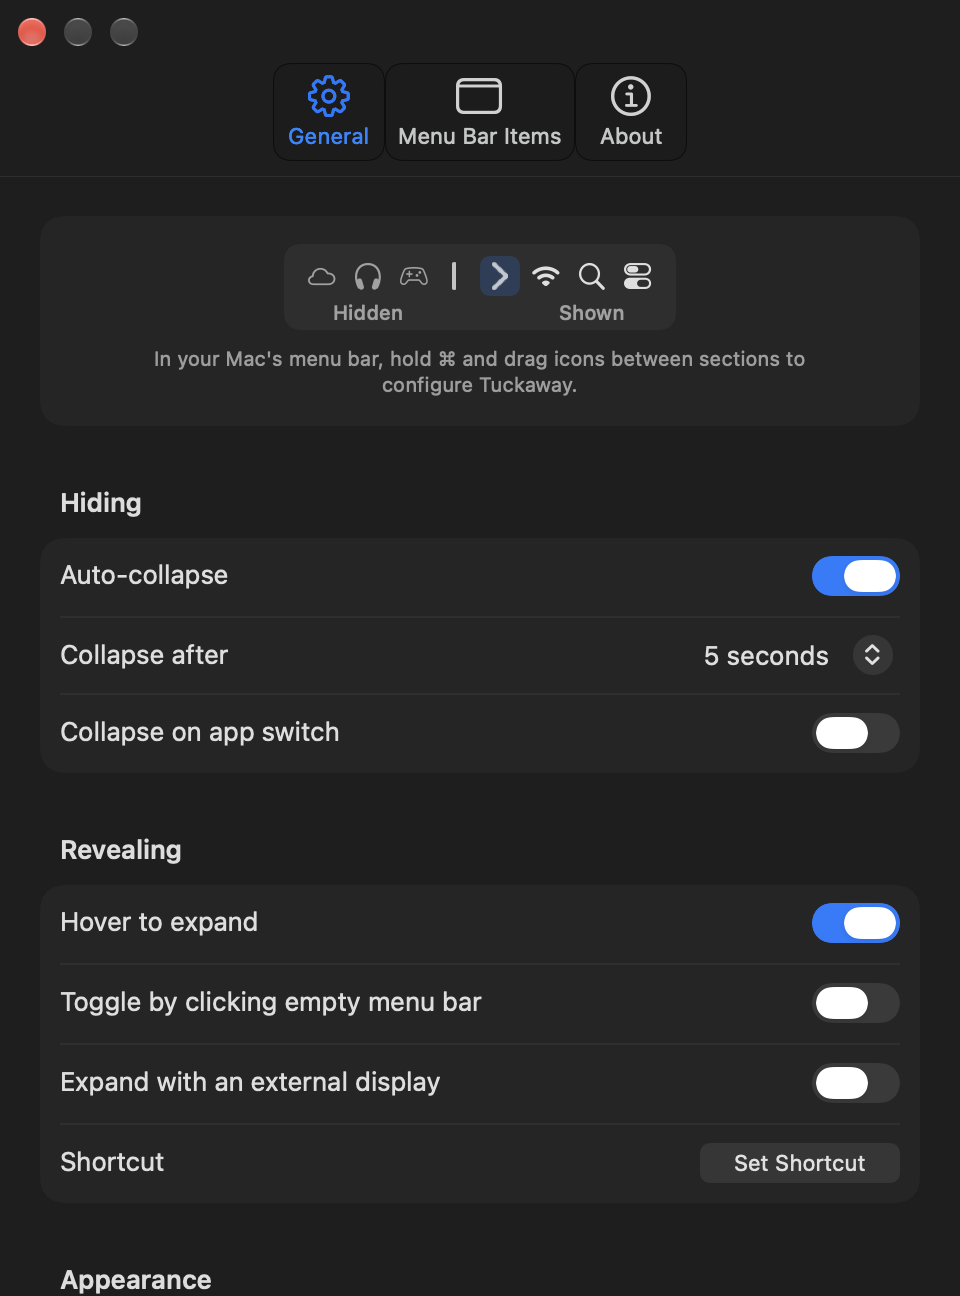
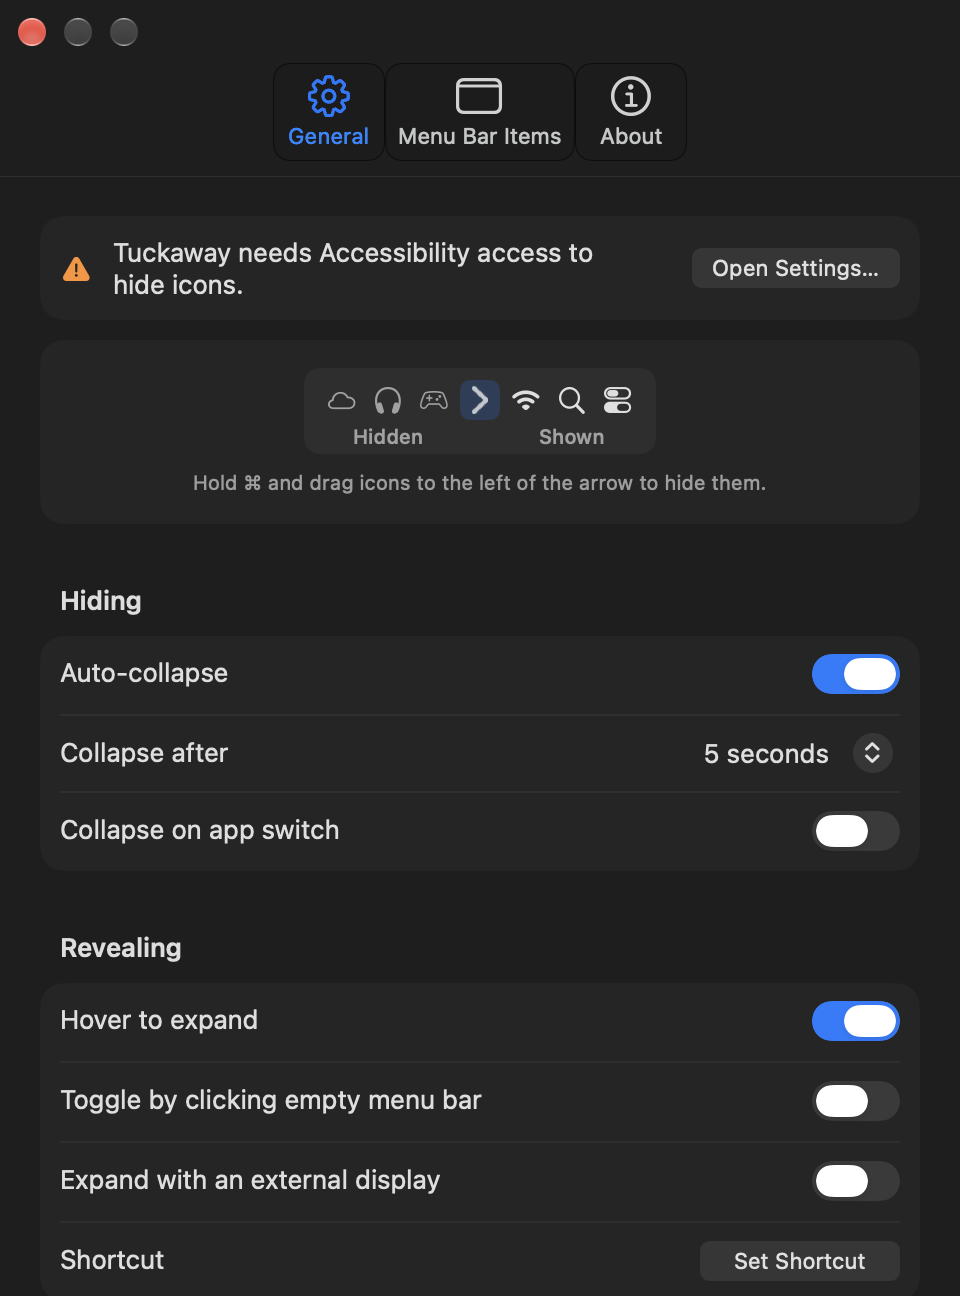
fix: make the macOS 27 hiding notice accurate
The App Store (sandboxed) build cannot use native hiding on macOS 27 and
told users hiding was impossible there. The direct-download build does
hide natively, so the notice now says only this version can't, and
links to the latest Tuckaway release instead of upstream issue #360.

Also refresh the General screenshot from the Direct build.

diff --git a/hidden/Features/StatusBar/Engine/LegacyLengthEngine.swift b/hidden/Features/StatusBar/Engine/LegacyLengthEngine.swift
@@ -141,7 +141,7 @@ final class LegacyLengthEngine: MenuBarEngine {
         alert.addButton(withTitle: NSLocalizedString("OK", comment: ""))
         NSApp.activate(ignoringOtherApps: true)
         if alert.runModal() == .alertFirstButtonReturn,
-           let url = URL(string: "https://github.com/dwarvesf/hidden/issues/360") {
+           let url = URL(string: "https://github.com/Bruno-Alumn/Tuckaway/releases/latest") {
             NSWorkspace.shared.open(url)
         }
     }

diff --git a/hidden/Features/StatusBar/StatusBarController.swift b/hidden/Features/StatusBar/StatusBarController.swift
@@ -663,7 +663,7 @@ class StatusBarController: MenuBarItemProvider {
     }
 
     @objc private func openMacOS27Notice() {
-        guard let url = URL(string: "https://github.com/dwarvesf/hidden/issues/360") else { return }
+        guard let url = URL(string: "https://github.com/Bruno-Alumn/Tuckaway/releases/latest") else { return }
         NSWorkspace.shared.open(url)
     }
     

diff --git a/CHANGELOG.md b/CHANGELOG.md
@@ -10,6 +10,7 @@
 - The arrow's context menu: "Auto-collapse" is a checkmark item, "Settings…" uses ⌘, , "Manage Menu Bar Items…" opens that tab directly, and Quit reads "Quit Tuckaway".
 
 ### Fixed
+- macOS 27: the App Store build's notice said menu-bar hiding was impossible on macOS 27, although the direct-download build supports it. The notice now says only that version can't hide icons, and links to the direct download instead of the upstream issue.
 - Preferences uses a native settings toolbar and compact controls; General and About keep the same width.
 - Shortcut recording cancels when the window closes, loses focus, or changes tabs. Invalid typing preserves the saved shortcut.
 - Always-hidden help now describes the correct boundary and Option-click behavior for the active engine.
